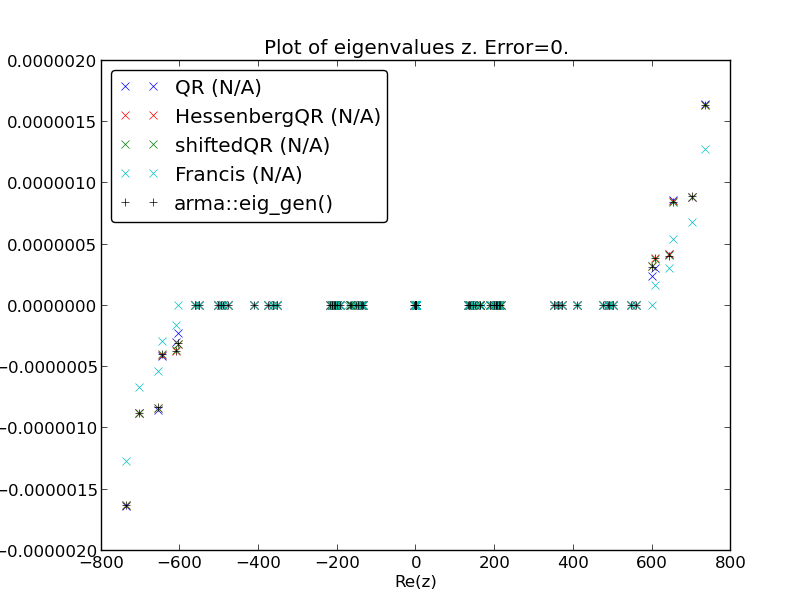
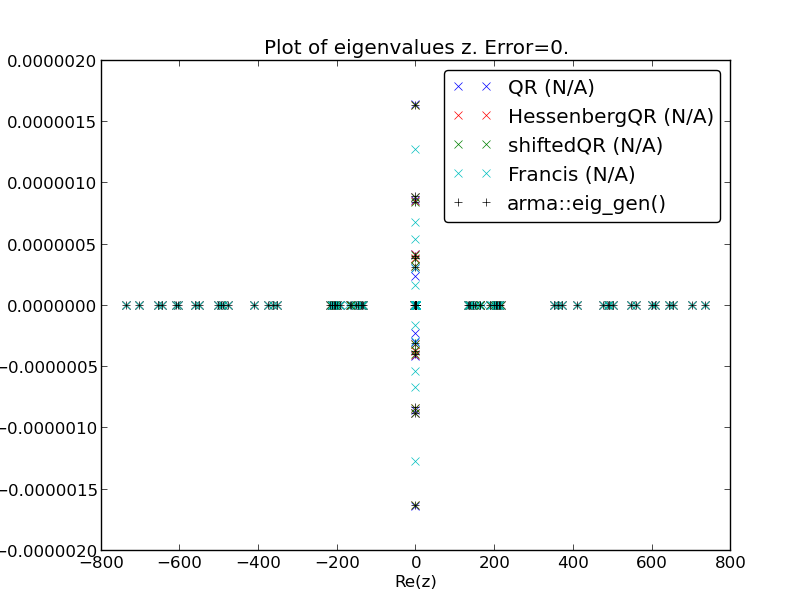
fixed consistency in presentation

diff --git a/Presentation/jorgenPresentation.html b/Presentation/jorgenPresentation.html
@@ -66,7 +66,8 @@
 	\newcommand{\imply}{\quad\Longrightarrow\quad}
 	$
 	
-<section>
+
+	<section>
 		<h1>Unsymmetric Eigensolvers</h1><br>
 		<h3>The Unsymmetric Eigenvalue Problem</h3>
 		<br>
@@ -303,14 +304,14 @@
 			</h3><br>
 		
 			<p>
-				$\mat A \in \mathbb{C}^{n\times n},\quad r \in [1, n], \quad \mat Q_k \in \mathbb{C}^{n\times r}$
+				$\mat A_0 = \mat A \in \mathbb{C}^{n\times n},\quad r \in [1, n], \quad \mat Q_k \in \mathbb{C}^{n\times r}$
 			</p>
 		
 			<p>
 				\begin{eqnarray}
 				& & \mathbf{for}\,k=1,2,...\\
-				& & \qquad \mat Z_k = \mat A\mat Q_{k-1}\\
-				& & \qquad \mat Q_k, \mat R_k = \mathrm{QR}\Big(\mat Z_{k}\Big)\\
+				& & \qquad \mat A_k = \mat A_{k-1}\mat Q_{k-1}\\
+				& & \qquad \mathrm{new}\,\, \mat Q_k \,\,\mathrm{from}\,\, \mathrm{QR}\Big(\mat A_k\Big)\\
 				\end{eqnarray}
 			</p>
 			
@@ -348,20 +349,20 @@
 
 			<p>
 				\begin{eqnarray}
-				& & \mat T_0 = \mat U_0^\dagger \mat A \mat U_0\\
+				& & \mat A_0 = \mat Q_0^\dagger \mat A \mat Q_0\\
 				& & \mathbf{for}\,k=1,2,...\\
-				& & \qquad \mat U_k, \, \mat R_k = \mathrm{QR}\Big(\mat T_{k-1}\Big)\\
-				& & \qquad \mat T_k = \mat R_k\mat U_k \\
+				& & \qquad \mathrm{new}\,\, \mat Q_k, \, \mat R_k \,\,\mathrm{from}\,\, \mathrm{QR}\Big(\mat A_{k-1}\Big)\\
+				& & \qquad \mat A_k = \mat R_k\mat Q_k \\
 				\end{eqnarray}
 			</p>
 		
 			<p class="fragment", align="left"><br>
-				$\mat R_k = \mat U_k^\dagger \mat T_{k-1}$ <br>
-				<span style="color:#FF0000">$\mat T_k$ is similar to $A$</span>.
+				$\mat R_k = \mat Q_k^\dagger \mat A_{k-1}$ <br>
+				<span style="color:#FF0000">$\mat A_k$ is similar to $A$</span>.
 			</p>
 		
 			<p class="fragment", align="left">
-				$\mat T_k$ converges to <span style="color:#0000FF">Schur form</span>.
+				$\mat A_k$ converges to <span style="color:#0000FF">Schur form</span>.
 			</p>
 		
 		</section>
@@ -522,14 +523,14 @@ void householderRedHessenberg(arma::mat & A) {
 		<section>
 			<h3 align="left">Single-Shift QR-step:</h3>
 			<p>
-				$$\mat Q_k, \mat R_k = \mathrm{QR}\Big(\mat A - \mu\mat I\Big)$$
-				$$\mat A = \mat Q_k \mat R_k + \mu\mat I$$</li>
+				$$\mat Q_k, \mat R_k = \mathrm{QR}\Big(\mat A_{k-1} - \mu\mat I\Big)$$
+				$$\mat A_k = \mat R_k\mat Q_k + \mu\mat I$$</li>
 			</p>
 			
 			<h4 align="left">Similarity transformation</h4>
-			<p>
+			<p class="fragment">
 				\begin{eqnarray}
-					\mat A = \mat R\mat U + \mu\mat I &=& \mat Q^T\left(\mat Q\mat R + \mu\mat I\right)\mat Q\\
+					\mat A = \mat R\mat Q + \mu\mat I &=& \mat Q^T\left(\mat Q\mat R + \mu\mat I\right)\mat Q\\
 													  &=& \mat Q^T\left(\mat A - \mu\mat I + \mu\mat I\right)\mat Q\\
 													  &=& \mat Q^T\mat A\mat Q
 				\end{eqnarray}
@@ -613,6 +614,7 @@ void householderRedHessenberg(arma::mat & A) {
 				\begin{eqnarray}
 											  a_2^\ast&=     & a_1 \\
 				                               \mat M &\equiv& (\mat A-a_1\mat I)(\mat A - a_2\mat I) \in \mathbb{R}^{n\times n}\\
+				                               \mat M &=     & \mat Q_1 \mat Q_2 \mat R_2 \mat R_1 \\
 									   \mat Z, \mat R &=     & \mathrm{QR}(\mat M) 					 \\
 											   \mat A &=     & \mat Z^T \mat A \mat Z 				 \\
 				\end{eqnarray}
@@ -686,27 +688,19 @@ void householderRedHessenberg(arma::mat & A) {
 		</section>
 	
 		<section>	
-			<pre><code>void FrancisQRstep(arma::mat & H) {
+			<pre><code class="min">void FrancisQRstep(arma::mat & H) {
 
-    //first col of M
-    s = H(m, m) + H(n, n);
-    t = H(m, m) * H(n, n) - H(m, n) * H(n, m);
-
-    xyz(0) = H(0, 0) * H(0, 0) + H(0, 1) * H(1, 0) - s * H(0, 0) + t;
-    xyz(1) = H(1, 0)*(H(0, 0) + H(1, 1) - s);
-    xyz(2) = H(1, 0) * H(2, 1);
+    //calc first col of M in matrix 'xyz'
 
     //"chasing the bulge"
     for (int k = -1; k < n - 2; k++) {
 
         house(ImBvvT, xyz);
         
-        //q = max(0, k);
         q = k * (int) (k > 0);
 
         H(span(k + 1, k + 3), span(q, n)) = ImBvvT * H(span(k + 1, k + 3), span(q, n));
 
-        //r = min(k+4, n)
         r = (k + 4 - n)*(int) (k + 4 < n) + n;
         
         H(span(0, r), span(k+1, k+3)) = H(span(0, r), span(k+1, k+3))*ImBvvT;
@@ -724,7 +718,6 @@ void householderRedHessenberg(arma::mat & A) {
     house(ImBvvT, xy);
     H(span(n-1, n), span(n-2, n)) = ImBvvT*H(span(n-1, n), span(n-2, n));
     H(span(0,n), span(n-1, n)) = H(span(0,n), span(n-1, n))*ImBvvT;
-
 }</code></pre>
 			
 		</section>
@@ -831,7 +824,7 @@ public:
 			<h3 align="left">Subclasses overriding virtual methods</h3>
 			<pre><code>class FrancisQR : public QR{
 public:
-    FrancisQR(arma::mat & A, double eps = 1E-6, int max_iter = 1000);
+    FrancisQR(arma::mat & A, double eps = 1E-16, int max_iter = 1000);
 protected:
 
     arma::mat subA;
@@ -1023,6 +1016,7 @@ protected:
 	</section>
 	
 
+	</div>
 	<!-- The navigational controls UI -->
 	<aside class="controls">
 		<a class="left" href="#">&#x25C4;</a>

diff --git a/code/scripts/plotData.py b/code/scripts/plotData.py
@@ -7,8 +7,8 @@ n =5;
 eps=0.00001
 nm = 1000
 
-fetchfile = 210393130523
-fetch = False
+fetchfile = 966891295214
+fetch = True
 
 
 programPath = os.path.expanduser("~") + "/NetBeansProjects/matrixCourse/dist/Debug/GNU-Linux-x86"
@@ -101,9 +101,11 @@ plotStyles=["b","r","g", "c"]
 eigPlotStyle = "x"
 
 #Sorting
-armaEig.sort(axis=0)
-for subset in eigvals:
-    subset.sort(axis=0)
+#==============================================================================
+# armaEig.sort(axis=0)
+# for subset in eigvals:
+#     subset.sort(axis=0)
+#==============================================================================
 
 
 titleEig = "Plot of eigenvalues z. Error=%g." % errors[0]
@@ -139,6 +141,7 @@ for i in range(len(methods)):
              hardcopy="../output/" + tag + "CONVERGANCE0.png")
 
 figure(1)
+
 plot(armaEig[:,0], armaEig[:,1], "k*", hold="on", 
      legend="arma::eig_gen()",
 #     axis=axisEig,
